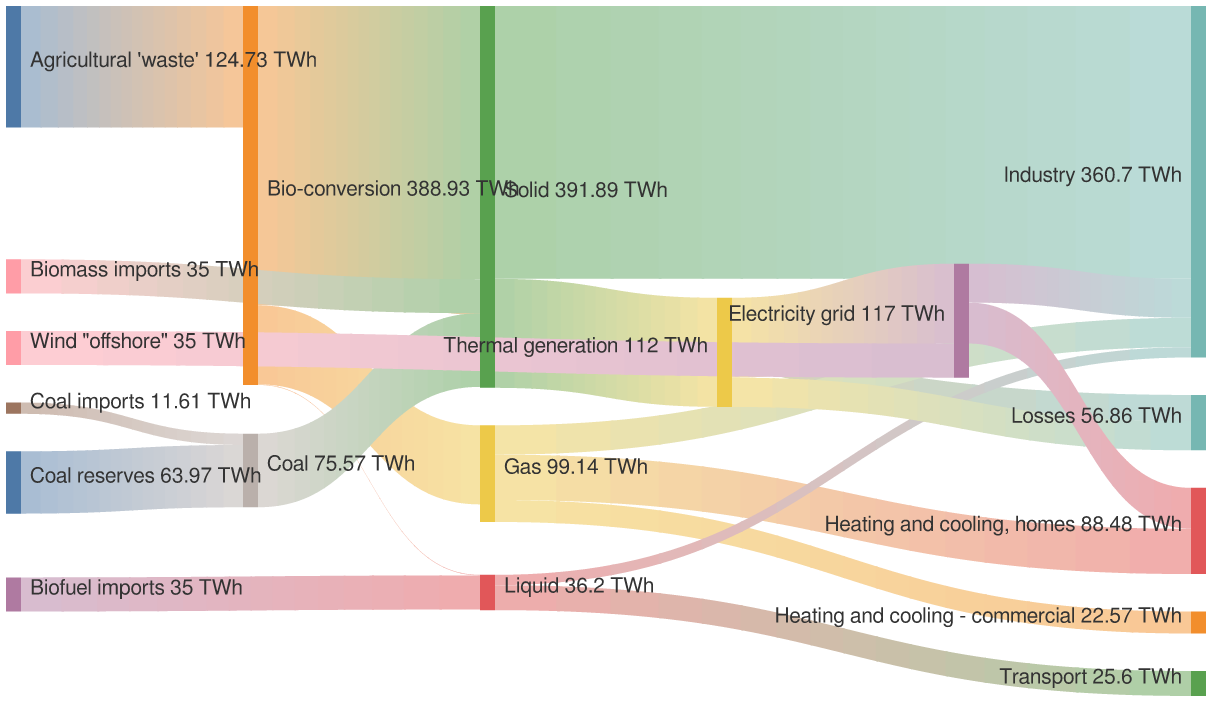
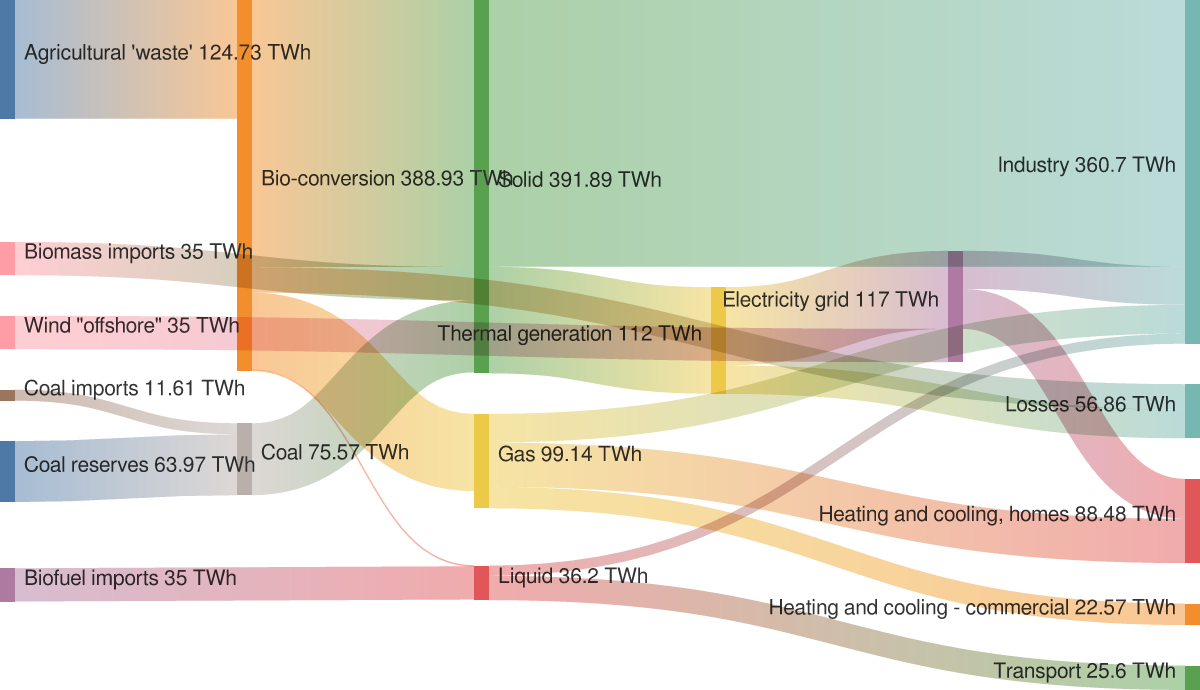
Regenerate gallery after gitgraph and sankey fixes
Claude-Session: https://claude.ai/code/session_01YSBvDqvT7DHspcB7hQZR6n

diff --git a/docs/GALLERY.md b/docs/GALLERY.md
@@ -5,7 +5,7 @@ Regenerate with `cargo run --release --example gallery`.
 
 ## agentflow
 
-Source: [`examples/diagrams/agentflow.mmd`](../examples/diagrams/agentflow.mmd) · rendered in 892.49µs
+Source: [`examples/diagrams/agentflow.mmd`](../examples/diagrams/agentflow.mmd) · rendered in 643.44µs
 
 <details><summary>source</summary>
 
@@ -37,7 +37,7 @@ agentflow-beta TB
 
 ## architecture
 
-Source: [`examples/diagrams/architecture.mmd`](../examples/diagrams/architecture.mmd) · rendered in 825.19µs
+Source: [`examples/diagrams/architecture.mmd`](../examples/diagrams/architecture.mmd) · rendered in 1.28ms
 
 <details><summary>source</summary>
 
@@ -74,7 +74,7 @@ architecture-beta
 
 ## block
 
-Source: [`examples/diagrams/block.mmd`](../examples/diagrams/block.mmd) · rendered in 299.27µs
+Source: [`examples/diagrams/block.mmd`](../examples/diagrams/block.mmd) · rendered in 208.30µs
 
 <details><summary>source</summary>
 
@@ -109,7 +109,7 @@ block-beta
 
 ## c4-container
 
-Source: [`examples/diagrams/c4-container.mmd`](../examples/diagrams/c4-container.mmd) · rendered in 616.76µs
+Source: [`examples/diagrams/c4-container.mmd`](../examples/diagrams/c4-container.mmd) · rendered in 683.50µs
 
 <details><summary>source</summary>
 
@@ -154,7 +154,7 @@ C4Container
 
 ## c4
 
-Source: [`examples/diagrams/c4.mmd`](../examples/diagrams/c4.mmd) · rendered in 582.49µs
+Source: [`examples/diagrams/c4.mmd`](../examples/diagrams/c4.mmd) · rendered in 506.46µs
 
 <details><summary>source</summary>
 
@@ -209,7 +209,7 @@ C4Context
 
 ## class
 
-Source: [`examples/diagrams/class.mmd`](../examples/diagrams/class.mmd) · rendered in 471.68µs
+Source: [`examples/diagrams/class.mmd`](../examples/diagrams/class.mmd) · rendered in 411.37µs
 
 <details><summary>source</summary>
 
@@ -249,7 +249,7 @@ classDiagram
 
 ## cynefin
 
-Source: [`examples/diagrams/cynefin.mmd`](../examples/diagrams/cynefin.mmd) · rendered in 213.74µs
+Source: [`examples/diagrams/cynefin.mmd`](../examples/diagrams/cynefin.mmd) · rendered in 190.54µs
 
 <details><summary>source</summary>
 
@@ -285,7 +285,7 @@ cynefin-beta
 
 ## er-subgraphs
 
-Source: [`examples/diagrams/er-subgraphs.mmd`](../examples/diagrams/er-subgraphs.mmd) · rendered in 628.65µs
+Source: [`examples/diagrams/er-subgraphs.mmd`](../examples/diagrams/er-subgraphs.mmd) · rendered in 548.81µs
 
 <details><summary>source</summary>
 
@@ -325,7 +325,7 @@ erDiagram
 
 ## er
 
-Source: [`examples/diagrams/er.mmd`](../examples/diagrams/er.mmd) · rendered in 480.10µs
+Source: [`examples/diagrams/er.mmd`](../examples/diagrams/er.mmd) · rendered in 473.30µs
 
 <details><summary>source</summary>
 
@@ -377,7 +377,7 @@ erDiagram
 
 ## eventmodeling
 
-Source: [`examples/diagrams/eventmodeling.mmd`](../examples/diagrams/eventmodeling.mmd) · rendered in 215.16µs
+Source: [`examples/diagrams/eventmodeling.mmd`](../examples/diagrams/eventmodeling.mmd) · rendered in 190.28µs
 
 <details><summary>source</summary>
 
@@ -401,7 +401,7 @@ tf 08 rmo CartItems ->> 03 ->> 07
 
 ## flowchart
 
-Source: [`examples/diagrams/flowchart.mmd`](../examples/diagrams/flowchart.mmd) · rendered in 646.46µs
+Source: [`examples/diagrams/flowchart.mmd`](../examples/diagrams/flowchart.mmd) · rendered in 537.03µs
 
 <details><summary>source</summary>
 
@@ -429,7 +429,7 @@ flowchart TD
 
 ## gantt
 
-Source: [`examples/diagrams/gantt.mmd`](../examples/diagrams/gantt.mmd) · rendered in 1.03ms
+Source: [`examples/diagrams/gantt.mmd`](../examples/diagrams/gantt.mmd) · rendered in 1.05ms
 
 <details><summary>source</summary>
 
@@ -469,7 +469,7 @@ gantt
 
 ## gitgraph
 
-Source: [`examples/diagrams/gitgraph.mmd`](../examples/diagrams/gitgraph.mmd) · rendered in 238.71µs
+Source: [`examples/diagrams/gitgraph.mmd`](../examples/diagrams/gitgraph.mmd) · rendered in 247.53µs
 
 <details><summary>source</summary>
 
@@ -507,7 +507,7 @@ gitGraph
 
 ## info
 
-Source: [`examples/diagrams/info.mmd`](../examples/diagrams/info.mmd) · rendered in 117.92µs
+Source: [`examples/diagrams/info.mmd`](../examples/diagrams/info.mmd) · rendered in 115.44µs
 
 <details><summary>source</summary>
 
@@ -521,7 +521,7 @@ info showInfo
 
 ## ishikawa
 
-Source: [`examples/diagrams/ishikawa.mmd`](../examples/diagrams/ishikawa.mmd) · rendered in 192.56µs
+Source: [`examples/diagrams/ishikawa.mmd`](../examples/diagrams/ishikawa.mmd) · rendered in 186.23µs
 
 <details><summary>source</summary>
 
@@ -554,7 +554,7 @@ ishikawa-beta
 
 ## journey
 
-Source: [`examples/diagrams/journey.mmd`](../examples/diagrams/journey.mmd) · rendered in 231.34µs
+Source: [`examples/diagrams/journey.mmd`](../examples/diagrams/journey.mmd) · rendered in 194.43µs
 
 <details><summary>source</summary>
 
@@ -579,7 +579,7 @@ journey
 
 ## kanban
 
-Source: [`examples/diagrams/kanban.mmd`](../examples/diagrams/kanban.mmd) · rendered in 496.01µs
+Source: [`examples/diagrams/kanban.mmd`](../examples/diagrams/kanban.mmd) · rendered in 460.72µs
 
 <details><summary>source</summary>
 
@@ -614,7 +614,7 @@ kanban
 
 ## mindmap
 
-Source: [`examples/diagrams/mindmap.mmd`](../examples/diagrams/mindmap.mmd) · rendered in 3.70ms
+Source: [`examples/diagrams/mindmap.mmd`](../examples/diagrams/mindmap.mmd) · rendered in 3.43ms
 
 <details><summary>source</summary>
 
@@ -652,7 +652,7 @@ mindmap
 
 ## packet
 
-Source: [`examples/diagrams/packet.mmd`](../examples/diagrams/packet.mmd) · rendered in 417.21µs
+Source: [`examples/diagrams/packet.mmd`](../examples/diagrams/packet.mmd) · rendered in 334.91µs
 
 <details><summary>source</summary>
 
@@ -686,7 +686,7 @@ packet-beta
 
 ## pie
 
-Source: [`examples/diagrams/pie.mmd`](../examples/diagrams/pie.mmd) · rendered in 160.26µs
+Source: [`examples/diagrams/pie.mmd`](../examples/diagrams/pie.mmd) · rendered in 135.41µs
 
 <details><summary>source</summary>
 
@@ -705,7 +705,7 @@ pie showData
 
 ## quadrant
 
-Source: [`examples/diagrams/quadrant.mmd`](../examples/diagrams/quadrant.mmd) · rendered in 193.53µs
+Source: [`examples/diagrams/quadrant.mmd`](../examples/diagrams/quadrant.mmd) · rendered in 130.84µs
 
 <details><summary>source</summary>
 
@@ -734,7 +734,7 @@ quadrantChart
 
 ## radar
 
-Source: [`examples/diagrams/radar.mmd`](../examples/diagrams/radar.mmd) · rendered in 170.64µs
+Source: [`examples/diagrams/radar.mmd`](../examples/diagrams/radar.mmd) · rendered in 148.46µs
 
 <details><summary>source</summary>
 
@@ -762,7 +762,7 @@ radar-beta
 
 ## railroad-abnf
 
-Source: [`examples/diagrams/railroad-abnf.mmd`](../examples/diagrams/railroad-abnf.mmd) · rendered in 263.94µs
+Source: [`examples/diagrams/railroad-abnf.mmd`](../examples/diagrams/railroad-abnf.mmd) · rendered in 193.64µs
 
 <details><summary>source</summary>
 
@@ -783,7 +783,7 @@ port = [ ":" ] 1*5DIGIT %x30-39 ;
 
 ## railroad-ir
 
-Source: [`examples/diagrams/railroad-ir.mmd`](../examples/diagrams/railroad-ir.mmd) · rendered in 210.71µs
+Source: [`examples/diagrams/railroad-ir.mmd`](../examples/diagrams/railroad-ir.mmd) · rendered in 178.00µs
 
 <details><summary>source</summary>
 
@@ -811,7 +811,7 @@ number = sequence(optional(terminal("-")), oneOrMore(nonterminal("digit")), spec
 
 ## railroad-peg
 
-Source: [`examples/diagrams/railroad-peg.mmd`](../examples/diagrams/railroad-peg.mmd) · rendered in 216.64µs
+Source: [`examples/diagrams/railroad-peg.mmd`](../examples/diagrams/railroad-peg.mmd) · rendered in 179.61µs
 
 <details><summary>source</summary>
 
@@ -832,7 +832,7 @@ Identifier <- !Keyword Letter Letter* . ;
 
 ## railroad
 
-Source: [`examples/diagrams/railroad.mmd`](../examples/diagrams/railroad.mmd) · rendered in 279.85µs
+Source: [`examples/diagrams/railroad.mmd`](../examples/diagrams/railroad.mmd) · rendered in 242.48µs
 
 <details><summary>source</summary>
 
@@ -854,7 +854,7 @@ string = '"' { ? any character except quote ? } '"' ;
 
 ## requirement
 
-Source: [`examples/diagrams/requirement.mmd`](../examples/diagrams/requirement.mmd) · rendered in 713.74µs
+Source: [`examples/diagrams/requirement.mmd`](../examples/diagrams/requirement.mmd) · rendered in 559.79µs
 
 <details><summary>source</summary>
 
@@ -936,7 +936,7 @@ requirementDiagram
 
 ## sankey
 
-Source: [`examples/diagrams/sankey.mmd`](../examples/diagrams/sankey.mmd) · rendered in 609.62µs
+Source: [`examples/diagrams/sankey.mmd`](../examples/diagrams/sankey.mmd) · rendered in 291.15µs
 
 <details><summary>source</summary>
 
@@ -981,7 +981,7 @@ Electricity grid,"Heating and cooling, homes",42.0
 
 ## sequence
 
-Source: [`examples/diagrams/sequence.mmd`](../examples/diagrams/sequence.mmd) · rendered in 403.46µs
+Source: [`examples/diagrams/sequence.mmd`](../examples/diagrams/sequence.mmd) · rendered in 250.45µs
 
 <details><summary>source</summary>
 
@@ -1016,7 +1016,7 @@ sequenceDiagram
 
 ## shapes
 
-Source: [`examples/diagrams/shapes.mmd`](../examples/diagrams/shapes.mmd) · rendered in 1.72ms
+Source: [`examples/diagrams/shapes.mmd`](../examples/diagrams/shapes.mmd) · rendered in 1.44ms
 
 <details><summary>source</summary>
 
@@ -1052,7 +1052,7 @@ flowchart LR
 
 ## state
 
-Source: [`examples/diagrams/state.mmd`](../examples/diagrams/state.mmd) · rendered in 660.54µs
+Source: [`examples/diagrams/state.mmd`](../examples/diagrams/state.mmd) · rendered in 607.10µs
 
 <details><summary>source</summary>
 
@@ -1080,7 +1080,7 @@ stateDiagram-v2
 
 ## subgraph-collapse
 
-Source: [`examples/diagrams/subgraph-collapse.mmd`](../examples/diagrams/subgraph-collapse.mmd) · rendered in 636.32µs
+Source: [`examples/diagrams/subgraph-collapse.mmd`](../examples/diagrams/subgraph-collapse.mmd) · rendered in 578.95µs
 
 <details><summary>source</summary>
 
@@ -1110,7 +1110,7 @@ flowchart LR
 
 ## subgraphs
 
-Source: [`examples/diagrams/subgraphs.mmd`](../examples/diagrams/subgraphs.mmd) · rendered in 715.25µs
+Source: [`examples/diagrams/subgraphs.mmd`](../examples/diagrams/subgraphs.mmd) · rendered in 703.57µs
 
 <details><summary>source</summary>
 
@@ -1141,7 +1141,7 @@ flowchart LR
 
 ## swimlane
 
-Source: [`examples/diagrams/swimlane.mmd`](../examples/diagrams/swimlane.mmd) · rendered in 831.94µs
+Source: [`examples/diagrams/swimlane.mmd`](../examples/diagrams/swimlane.mmd) · rendered in 747.26µs
 
 <details><summary>source</summary>
 
@@ -1171,7 +1171,7 @@ swimlane-beta LR
 
 ## timeline
 
-Source: [`examples/diagrams/timeline.mmd`](../examples/diagrams/timeline.mmd) · rendered in 393.50µs
+Source: [`examples/diagrams/timeline.mmd`](../examples/diagrams/timeline.mmd) · rendered in 309.34µs
 
 <details><summary>source</summary>
 
@@ -1196,7 +1196,7 @@ timeline
 
 ## treemap
 
-Source: [`examples/diagrams/treemap.mmd`](../examples/diagrams/treemap.mmd) · rendered in 306.97µs
+Source: [`examples/diagrams/treemap.mmd`](../examples/diagrams/treemap.mmd) · rendered in 295.50µs
 
 <details><summary>source</summary>
 
@@ -1233,7 +1233,7 @@ classDef highlight fill:#ffd166,stroke:#c77d00,color:#000
 
 ## treeview
 
-Source: [`examples/diagrams/treeview.mmd`](../examples/diagrams/treeview.mmd) · rendered in 182.82µs
+Source: [`examples/diagrams/treeview.mmd`](../examples/diagrams/treeview.mmd) · rendered in 156.67µs
 
 <details><summary>source</summary>
 
@@ -1259,7 +1259,7 @@ treeView-beta
 
 ## usecase
 
-Source: [`examples/diagrams/usecase.mmd`](../examples/diagrams/usecase.mmd) · rendered in 735.72µs
+Source: [`examples/diagrams/usecase.mmd`](../examples/diagrams/usecase.mmd) · rendered in 655.32µs
 
 <details><summary>source</summary>
 
@@ -1303,7 +1303,7 @@ style pays stroke:#6b46c1,stroke-width:2px
 
 ## venn
 
-Source: [`examples/diagrams/venn.mmd`](../examples/diagrams/venn.mmd) · rendered in 469.24µs
+Source: [`examples/diagrams/venn.mmd`](../examples/diagrams/venn.mmd) · rendered in 459.84µs
 
 <details><summary>source</summary>
 
@@ -1327,7 +1327,7 @@ venn-beta
 
 ## wardley
 
-Source: [`examples/diagrams/wardley.mmd`](../examples/diagrams/wardley.mmd) · rendered in 262.88µs
+Source: [`examples/diagrams/wardley.mmd`](../examples/diagrams/wardley.mmd) · rendered in 194.08µs
 
 <details><summary>source</summary>
 
@@ -1376,7 +1376,7 @@ note "Migrate to cloud-native database" [0.60, 0.50]
 
 ## xychart
 
-Source: [`examples/diagrams/xychart.mmd`](../examples/diagrams/xychart.mmd) · rendered in 252.78µs
+Source: [`examples/diagrams/xychart.mmd`](../examples/diagrams/xychart.mmd) · rendered in 195.78µs
 
 <details><summary>source</summary>
 
@@ -1396,7 +1396,7 @@ xychart-beta
 
 ## zenuml
 
-Source: [`examples/diagrams/zenuml.mmd`](../examples/diagrams/zenuml.mmd) · rendered in 403.32µs
+Source: [`examples/diagrams/zenuml.mmd`](../examples/diagrams/zenuml.mmd) · rendered in 427.11µs
 
 <details><summary>source</summary>
 
